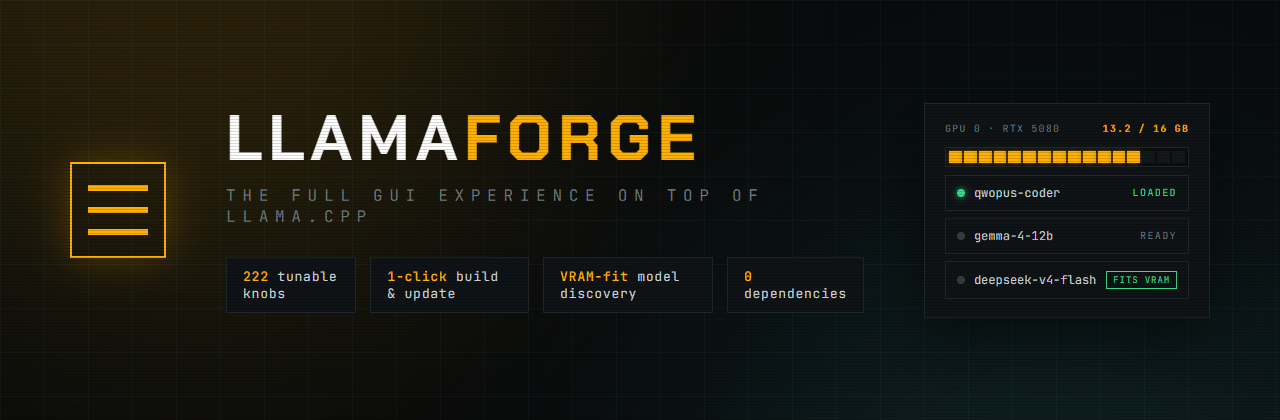
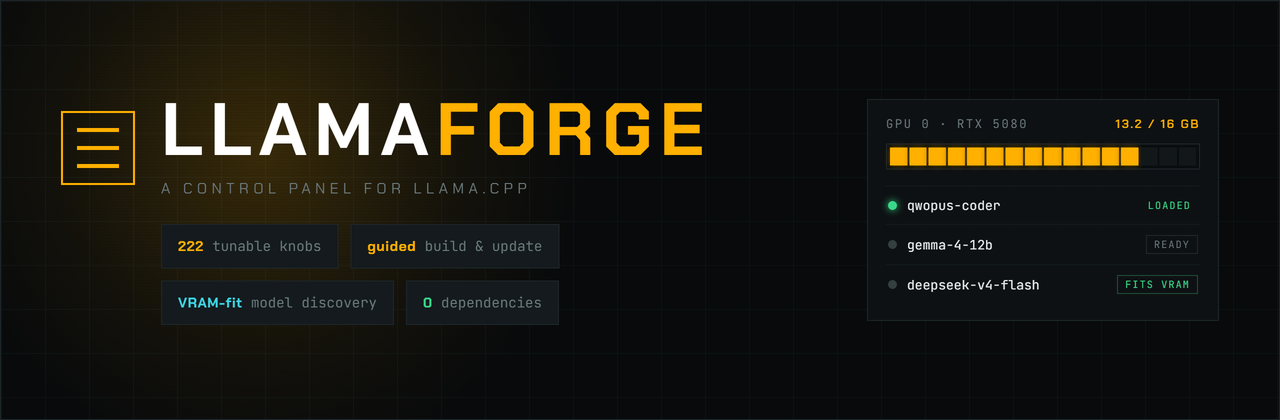
Re-aim positioning toward llama.cpp control-panel audience
- README: drop 'no command line' overpromise; add explicit who-it's-for /
  who-it's-not-for framing (setup script + build step, Windows/NVIDIA)
- Regenerate hero.png: 'guided build & update' instead of '1-click build',
  subtitle 'a control panel for llama.cpp'

diff --git a/README.md b/README.md
@@ -1,5 +1,5 @@
 <p align="center">
-  <img src="docs/hero.png" alt="LlamaForge - the full GUI experience on top of llama.cpp" width="100%">
+  <img src="docs/hero.png" alt="LlamaForge - a control panel for llama.cpp" width="100%">
 </p>
 
 <p align="center">
@@ -22,10 +22,19 @@
 
 # LlamaForge
 
-A graphical control panel that sits on top of [llama.cpp](https://github.com/ggml-org/llama.cpp):
+A graphical control panel for [llama.cpp](https://github.com/ggml-org/llama.cpp):
 build it, keep it current with upstream, discover models that fit your hardware,
-tune **every** server parameter per model, and run - all from a browser, no
-command line.
+tune **every** server parameter per model, and run — all from your browser instead
+of hand-editing `models.ini` and long `llama-server` command lines.
+
+**Who it's for:** people who want llama.cpp's speed and control but would rather not
+memorize flags, edit config files by hand, or babysit build commands. It assumes
+you're comfortable running a setup script once and building llama.cpp for your
+machine — both guided from the dashboard, on Windows with an NVIDIA GPU (CPU-only
+works too). **Looking for something else?** If you want a zero-config, double-click
+installer with no compile step, [LM Studio](https://lmstudio.ai),
+[Ollama](https://ollama.com), or [Jan](https://jan.ai) will get you running faster —
+LlamaForge trades that for direct, per-model control over the real llama.cpp server.
 
 > LlamaForge is an independent wrapper and is **not affiliated with llama.cpp / ggml-org**.
 > All inference, model support, and performance come from llama.cpp (MIT, (c) The ggml